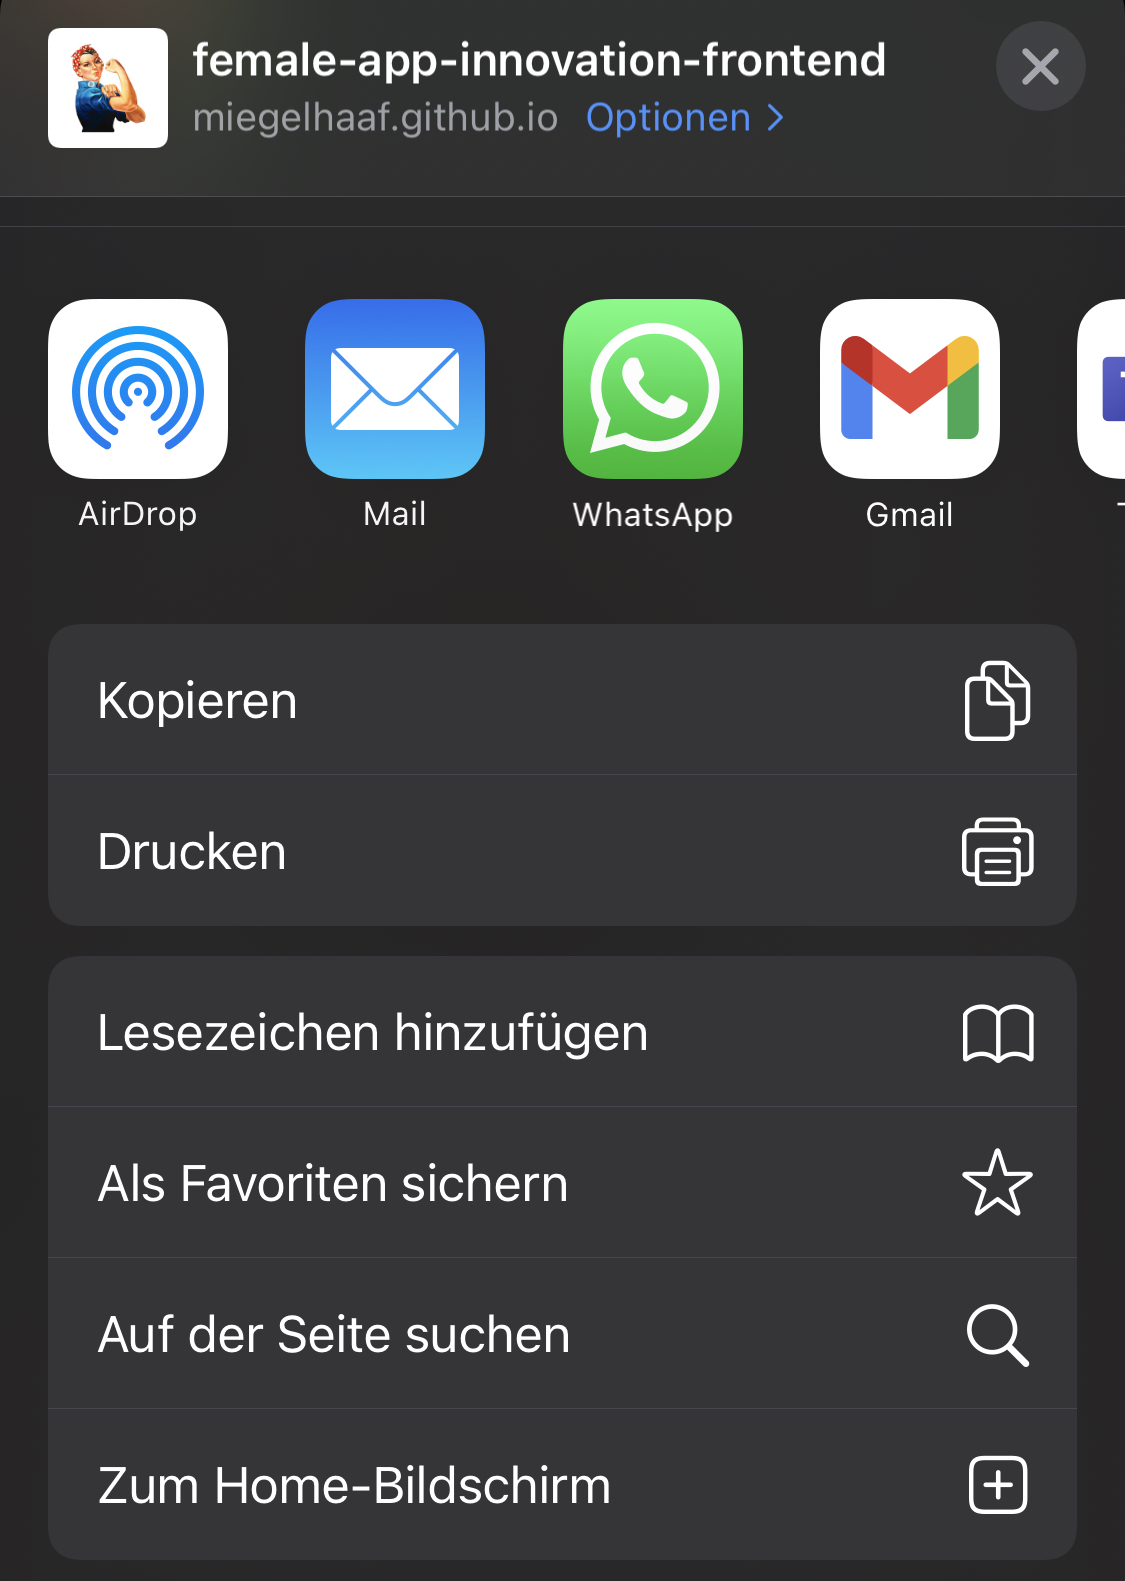
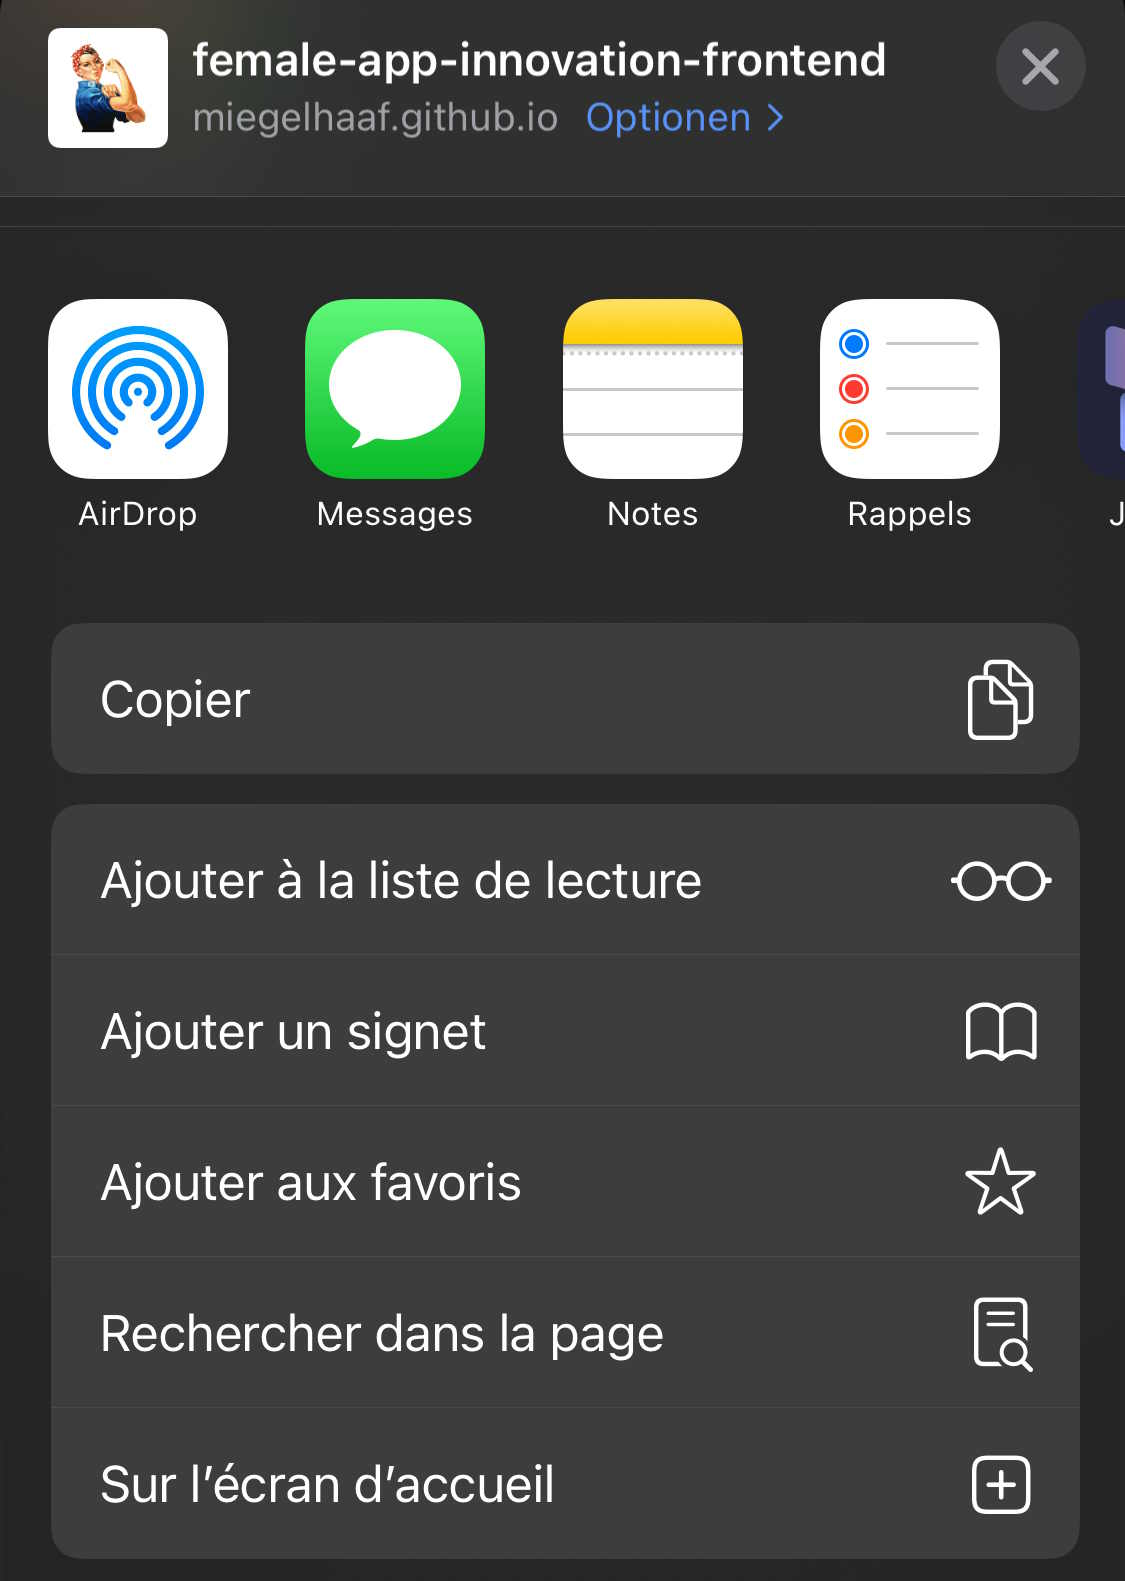
updates FR

diff --git a/instructions/day1/ApplicationPart2/README_FR.md b/instructions/day1/ApplicationPart2/README_FR.md
@@ -53,19 +53,19 @@ _Appuyer sur la pédale d'accélérateur déclenche une demande dans le frontend
 Nous avons préparé une manière automatisée de créer et de mettre à jour le site web pour vous. Vous utiliserez deux des fonctionnalités géniales de GitHub. GitHub Pages et GitHub Actions. Commençons par les actions.
 
 - Allez aux **Actions** de votre dépôt
-- Cliquez sur le bouton qui dit _Je comprends mes workflows, allez-y et activez-les_ pour activer GitHub Actions
+- Cliquez sur le bouton qui dit _I understand my workflows, go ahead and enable them_ pour activer GitHub Actions
 
 _Un [dépôt](https://docs.github.com/github/creating-cloning-and-archiving-repositories/creating-a-repository-on-github/about-repositories) contient tous les fichiers de votre projet et l'historique des révisions de chaque fichier. Vous pouvez discuter et gérer le travail de votre projet au sein du dépôt._
 
 ![Activer GitHub Actions](./images/EnableGithubActions.png)
 
-Assurez-vous que les Actions ont des permissions de lecture/écriture. Vérifiez cela via Paramètres->Actions->Général et descendez jusqu'à la section _Permissions de workflow_. Cliquez sur l'option _Permissions de lecture et d'écriture_. Cliquez sur _Enregistrer_.
+Assurez-vous que les Actions ont des permissions de lecture/écriture. Vérifiez cela via Paramètres->Actions->Général et descendez jusqu'à la section _Workflow Permissions_. Cliquez sur l'option _Read and write permissions_. Cliquez sur _Save_.
 ![Vérifier les paramètres](./images/gh-actions-read.png)
 
 ### Exécuter GitHub Actions
 
 - Dans l'onglet **Actions** de votre dépôt, cliquez sur le workflow **pages**.
-- Ouvrez le menu déroulant **Exécuter le workflow** et cliquez sur le bouton **Exécuter le workflow** pour confirmer l'exécution du workflow.
+- Ouvrez le menu déroulant **Run workflow** et cliquez sur le bouton **Run workflow** pour confirmer l'exécution du workflow.
 
 Maintenant, observez comment le workflow est exécuté et jetez un œil aux étapes individuelles qui sont exécutées pour vous par GitHub.
 
@@ -117,14 +117,14 @@ appstore officiel. Par conséquent, nous n'ajouterons pas l'application à l'éc
   - Voici à quoi cela devrait ressembler sur ios :
     ![Ajouter à l'écran d'accueil ios](./images/FrontendHomescreen1.jpg)
   - Voici à quoi cela devrait ressembler sur Android :
-    ![Ajouter à l'écran d'accueil Android](./images/FrontendHomescreen1.jpg)
+    ![Ajouter à l'écran d'accueil Android](./images/FrontendHomescreenAndroid.jpg)
 - Maintenant, vous pouvez ouvrir le site web comme une application normale depuis l'écran d'accueil de votre téléphone.
 
 ## Backend de l'application Milligram
 
 Le backend de l'application recevra les photos téléchargées, les stockera pour nous et les renverra lorsque nécessaire.
 
-Notre application peut être divisée en un frontend (quelque chose que vous voyez et qui s'exécute localement sur votre téléphone) et un backend (quelque chose qui traite vos informations). Dans ce cas, comme nous voulons créer notre propre application de médias sociaux, nous avons besoin de photos pour notre "Fil d'actualités". Cela signifie que nous avons besoin d'un endroit pour stocker de nombreux fichiers et d'un endroit pour exécuter notre logique d'application (qui est notre code de programmation).
+Notre application peut être divisée en un frontend (quelque chose que vous voyez et qui s'exécute localement sur votre téléphone) et un backend (quelque chose qui traite vos informations et qui s'exécute sur un serveur). Dans ce cas, comme nous voulons créer notre propre application de médias sociaux, nous avons besoin de photos pour notre "Fil d'actualités". Cela signifie que nous avons besoin d'un endroit pour stocker de nombreux fichiers et d'un endroit pour exécuter notre logique d'application (qui est notre code de programmation).
 
 Pour stocker les fichiers, nous utiliserons un "Compte de stockage Azure" et pour exécuter notre application, nous utiliserons une "Application web Azure".
 Tout d'abord, connectez-vous à votre "Compte Azure".
@@ -140,14 +140,12 @@ Tout d'abord, connectez-vous à votre "Compte Azure".
 ### Créer un compte de stockage
 
 Notre compte de stockage est l'endroit où nous "sauvegardons" nos photos pour notre fil d'actualités.
-À l'intérieur du compte de stockage, nous utilisons le soi-disant [Azure Blob Storage](https://learn.microsoft.com/en-us/azure/storage/blobs/). Le Blob Storage peut contenir une quantité massive de fichiers.
-Tout comme le disque ou le stockage sur votre ordinateur. Un fait amusant est que vous pouvez stocker autant de photos sur le compte de stockage que vous le souhaitez et vous n'avez pas à vous soucier de votre espace de stockage.
+À l'intérieur du compte de stockage, nous utilisons un [Azure Blob Storage](https://learn.microsoft.com/en-us/azure/storage/blobs/). Le Blob Storage peut contenir une quantité massive de fichiers.
+Tout comme le disque ou le stockage sur votre ordinateur. Un point intéresant est que vous pouvez stocker autant de photos sur le compte de stockage que vous le souhaitez et vous n'avez pas à vous soucier de votre espace de stockage.
 
-> **Ressource Azure** : Dans Azure, le terme ressource fait référence à une entité gérée par Azure. Par exemple, les machines virtuelles, les réseaux virtuels,
-> et les comptes de stockage sont tous appelés ressources Azure.
+> **Ressource Azure** : Dans Azure, le terme ressource fait référence à une entité gérée par Azure. Par exemple, les machines virtuelles, les réseaux virtuels, et les comptes de stockage sont tous appelés ressources Azure.
 
-> **Groupe de ressources Azure**: Un groupe de ressources est un conteneur qui contient des ressources liées à une solution Azure. Le groupe de ressources peut inclure toutes les
-> ressources > pour la solution, ou seulement celles que vous souhaitez gérer en groupe.
+> **Groupe de ressources Azure**: Un groupe de ressources est un conteneur qui contient des ressources liées à une solution Azure. Le groupe de ressources peut inclure toutes les ressources > pour la solution, ou seulement celles que vous souhaitez gérer en groupe.
 
 - Allez à la page d'accueil du portail Azure.
 - Cliquez sur _+ Créer une ressource_.
@@ -184,9 +182,8 @@ Notre [Azure Web App](https://learn.microsoft.com/en-us/azure/static-web-apps/) 
 - Cliquez sur _Review + Create_ en bas de l'écran.
 - Revoyez les informations affichées et cliquez sur _Create_ sur l'écran suivant pour lancer l'application backend.
 
-:::tip
-📝 Sur la page de révision, vous pouvez trouver des informations sur le coût estimé de votre service. Assurez-vous qu'il affiche _Estimated price - Free_
-:::
+> 📝 Sur la page de révision, vous pouvez trouver des informations sur le coût estimé de votre service. Assurez-vous qu'il affiche _Estimated price - Free_
+
 
 ### Intégrer le stockage et configurer l'application Web
 
@@ -247,8 +244,13 @@ Faisons une pause. Pour vous assurer que vous êtes sur la bonne voie, testez si
 
 ### Clarifications, qu'avons-nous fait jusqu'à présent ?
 
-Félicitations, vous venez de déployer le backend de votre application web ! Résumons ce que nous avons fait jusqu'à présent.\
-D'abord, nous avons déployé le frontend (interface utilisateur) de notre application web en utilisant les pages github. C'est ce que vous voyez lorsque vous allez sur votre lien de pages github. Le frontend avait besoin d'un serveur pour servir des images et exécuter une certaine logique. C'est là que la partie azure est intervenue. D'abord, nous avons créé une ressource de stockage, elle est responsable du stockage de nos images. Ensuite, nous avons créé une ressource d'application web, ici nous exécuterons notre logique de serveur. La logique du serveur est écrite en Python en utilisant un framework appelé FastAPI. Le code de la logique du serveur est hébergé dans le dépôt github de everyonecancode. Nous avons connecté notre application web au dépôt github et nous avons demandé au serveur d'exécuter une commande spécifique lors du démarrage de l'application web. Cette commande commencera à exécuter notre logique de serveur, c'est pourquoi vous pouvez voir les docs dans votre navigateur sous `/docs`. Ensuite, nous essaierons de connecter le Frontend au Backend.
+Félicitations, vous venez de déployer le backend de votre application web ! Résumons ce que nous avons fait jusqu'à présent.
+
+D'abord, nous avons déployé le frontend (interface utilisateur) de notre application web en utilisant les pages github. C'est ce que vous voyez lorsque vous allez sur votre lien de pages github. Le frontend avait besoin d'un serveur pour servir des images et exécuter une certaine logique. C'est là que la partie azure est intervenue. 
+
+Nous avons créé une ressource de stockage, elle est responsable du stockage de nos images. Ensuite, nous avons créé une ressource d'application web, ici nous exécuterons notre logique de serveur. La logique du serveur est écrite en Python en utilisant un framework appelé FastAPI. Le code de la logique du serveur est hébergé dans le dépôt github de everyonecancode. 
+
+Nous avons connecté notre application web au dépôt github et nous avons demandé au serveur d'exécuter une commande spécifique lors du démarrage de l'application web. Cette commande commencera à exécuter notre logique de serveur, c'est pourquoi vous pouvez voir les docs dans votre navigateur sous `/docs`. Ensuite, nous essaierons de connecter le Frontend au Backend.
 
 ### Intégrer l'URL de l'application web Azure dans les secrets de GitHub
 
@@ -284,7 +286,7 @@ C'est tout pour aujourd'hui. Félicitations ! 🎉
 
 Demain, nous rendrons notre application intelligente en ajoutant de l'intelligence artificielle pour détecter les objets dans vos images ainsi que pour parler à notre application.
 
-## Surchargé ? Nous avons ce qu'il vous faut
+## Vous coincez ? Nous avons ce qu'il vous faut
 
 Demandez à votre coach si vous n'avez pas réussi. Nous avons une solution de secours pour vous.
 

diff --git a/instructions/day1/ApplicationPart1/README_FR.md b/instructions/day1/ApplicationPart1/README_FR.md
@@ -22,11 +22,11 @@ Aujourd'hui, vous allez apprendre comment :
 
 ## Créer une nouvelle branche dans votre projet
 
-Allez sur votre dépôt sur GitHub. Cliquez sur le menu déroulant "main" et tapez le nom de votre nouvelle branche (par exemple, Update-title-and-color). Cliquez sur 'Créer la branche : update-title-and-color' pour la créer.
+Allez sur votre dépôt sur GitHub. Cliquez sur le menu déroulant "main" et tapez le nom de votre nouvelle branche (par exemple, Update-title-and-color). Cliquez sur 'Create branch : update-title-and-color' pour la créer.
 
 ![Créer une nouvelle branche](./images/create-branch.png)
 
-Tapons quelques commandes git dans le terminal pour créer une nouvelle branche.
+Tapons quelques commandes git dans le terminal pour créer une nouvelle branche. Pour afficher le terminal, rendez-vous dans le menu 'View>Terminal' ou par le raccourci clavier `Ctrl + ù`.
 ![Terminal](./images/terminal.png)
 
 <details>
@@ -89,20 +89,22 @@ Maintenant, exécutez d'abord `git add .` cela ajoutera tous les fichiers modifi
 
 ![Git commit and push](./images/git-commit-push.png)
 
-## Ouvrir une demande de tirage et la fusionner
+## Ouvrir une "pull request" et la fusionner
 
-Retournez maintenant dans votre dépôt sur GitHub. Vous devriez voir un message indiquant que vous avez poussé votre branche. Cliquez sur le bouton **Comparer & demande de tirage** pour ouvrir une nouvelle demande de tirage.
+Retournez maintenant dans votre dépôt sur GitHub. Vous devriez voir un message indiquant que vous avez poussé votre branche. Cliquez sur le bouton **Compare & pull request** pour ouvrir une nouvelle pull request.
 
-> Si ce message n'apparaît pas, cliquez sur l'onglet **Demandes de tirage** puis sur le bouton **Nouvelle demande de tirage**.
+Une pull request est une demande de fusion de vos modifications dans la branche principale. C'est une manière très populaire de travailler professionnellement avec d'autres développeurs sur un projet pour garantir la qualité du code.
+
+> Si ce message n'apparaît pas, cliquez sur l'onglet **Pull request** puis sur le bouton **New pull request**.
 
 ![Comparer & demande de tirage](./images/compare-pull-request.png)
 
 Une nouvelle fenêtre s'ouvre. Ici, vous pouvez voir votre dernier message de commit comme titre et avez la possibilité d'insérer une description. Vérifiez que vous avez choisi la branche principale de votre propre dépôt pour la fusion.
 
-Cliquez sur le bouton **Créer une demande de tirage** en bas à gauche pour créer une nouvelle demande de tirage.
+Cliquez sur le bouton **Create pull request** en bas à gauche pour créer une nouvelle pull request.
 
 > **Note**
-> Veuillez vérifier que vous ouvrez la demande de tirage contre la branche principale de votre propre dépôt comme le montre la capture d'écran ci-dessous !
+> Veuillez vérifier que vous ouvrez la pull request contre la branche principale de votre propre dépôt comme le montre la capture d'écran ci-dessous !
 
 ![Ouvrir une demande de tirage](./images/open-pull-request.png)
 
@@ -112,8 +114,8 @@ Une autre fenêtre s'ouvre. Ici, vous pouvez revoir vos modifications. Cliquez s
 
 Cliquez à nouveau sur **Conversation** pour voir la vue de la conversation. Ici, vous pouvez voir le message de commit et la description que nous avons ajoutés.
 
-Les demandes de tirage sont une manière très populaire de travailler professionnellement avec d'autres développeurs sur un projet pour garantir la qualité du code. Habituellement, une autre personne examinerait maintenant vos modifications et les accepterait puis les fusionnerait dans la branche **main**.
-Aujourd'hui, nous allons le faire nous-mêmes. Cliquez sur le bouton **Fusionner la demande de tirage** puis sur le bouton **Confirmer la fusion** pour fusionner vos modifications récentes.
+Les pull requests sont une manière très populaire de travailler professionnellement avec d'autres développeurs sur un projet pour garantir la qualité du code. Habituellement, une autre personne examinerait maintenant vos modifications et les accepterait puis les fusionnerait dans la branche **main**.
+Aujourd'hui, nous allons le faire nous-mêmes. Cliquez sur le bouton **Merge pull request** puis sur le bouton **Confirm merge** pour fusionner vos modifications récentes.
 
 Si tout s'est bien passé, vous devriez voir un message indiquant que votre demande de tirage a été fusionnée.
 
